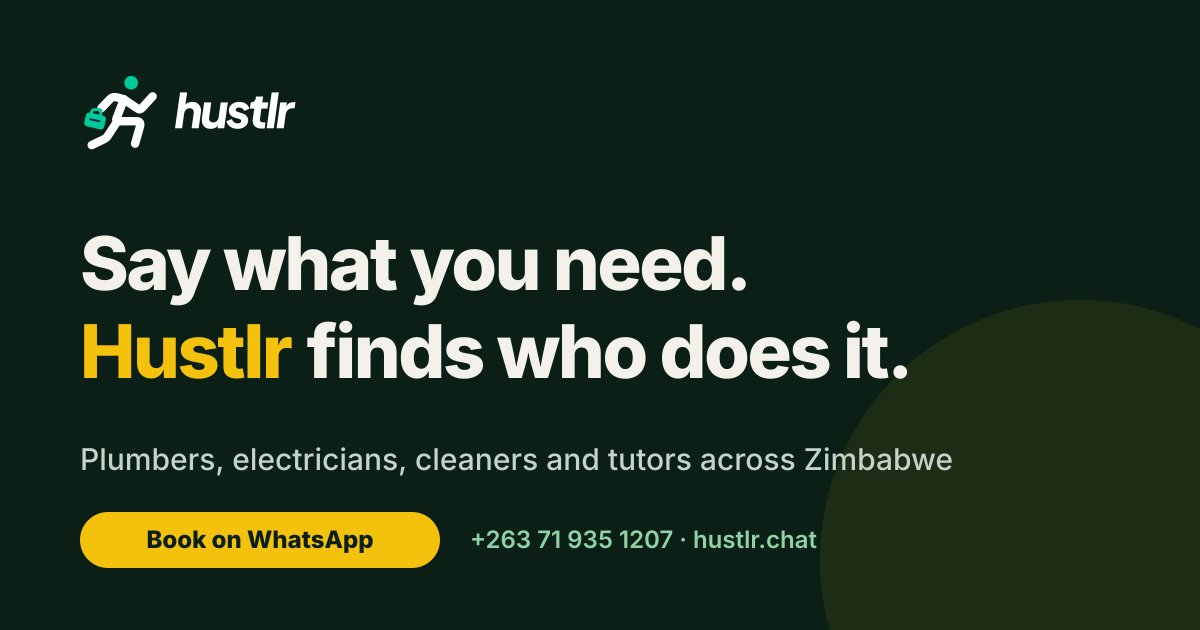
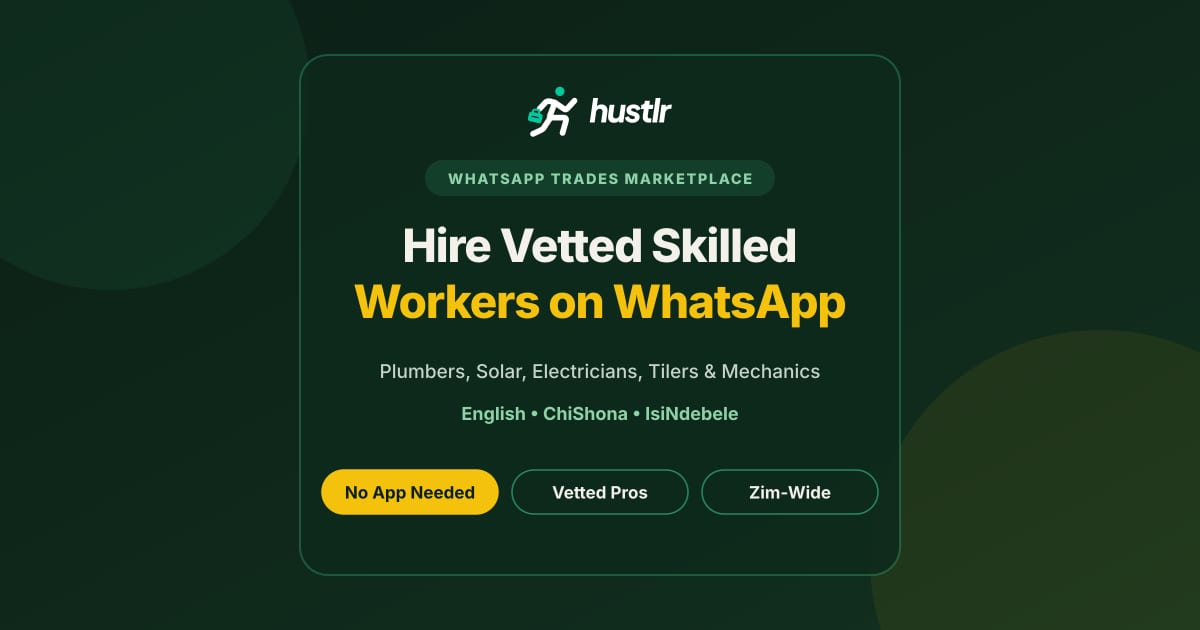
feat: implement /hire page linking trades and cities, add SEO enhancements and update navigation

diff --git a/src/styles/landing.css b/src/styles/landing.css
@@ -102,6 +102,13 @@
 .lp-bycity h3 { font-family: var(--display); font-weight: 800; font-size: 20px; letter-spacing: -0.02em; }
 .lp-bycity ul { margin-top: 12px; }
 
+/* /hire hub */
+.lp-hub { margin-top: 28px; }
+.lp-hub h3 { font-family: var(--display); font-weight: 800; font-size: 24px; letter-spacing: -0.02em; }
+.lp-hub-list { display: grid; gap: 4px; margin: 16px 0 0; padding: 0; list-style: none; }
+.lp-hub-list a { display: block; padding: 10px 12px; border-radius: 12px; font-weight: 700; }
+.lp-hub-list a:hover { background: var(--rd-mint); color: var(--rd-green-text); }
+
 /* Steps */
 .lp-steps { display: grid; grid-template-columns: repeat(auto-fit, minmax(240px, 1fr)); gap: 20px; margin: 36px 0 0; padding: 0; list-style: none; }
 .lp-steps li { padding: 28px; border-radius: var(--rd-radius); background: var(--ink); color: var(--page); }

diff --git a/src/styles/home.css b/src/styles/home.css
@@ -459,6 +459,18 @@ ol {
   color: var(--green);
 }
 .menu-foot:hover { background: var(--panel); }
+/* Services menu: town links */
+.menu-links {
+  display: flex;
+  flex-wrap: wrap;
+  align-items: center;
+  gap: 6px;
+  margin-top: 8px;
+  padding: 10px 12px;
+}
+.menu-links span { margin-right: 6px; font-size: 12px; font-weight: 800; letter-spacing: 0.08em; text-transform: uppercase; color: #5b6e64; }
+.menu-links a { padding: 6px 12px; border-radius: 999px; border: 1px solid var(--line); font-size: 13.5px; font-weight: 700; }
+.menu-links a:hover { background: var(--page); }
 
 /* Mobile menu */
 .nav-panel {

diff --git a/src/lib/llmsTxt.ts b/src/lib/llmsTxt.ts
@@ -34,6 +34,7 @@ export function buildLlmsTxt(siteUrl: string): string {
     '## Core pages',
     '',
     `- [Hustlr homepage](${S}/): What Hustlr is, how WhatsApp matching works, who it serves, and the WhatsApp contact.`,
+    `- [Find a pro](${S}/hire): Every trade and town page in one place, grouped by city and service.`,
     `- [FAQ](${S}/#questions): Short answers on how Hustlr works, trades, app-free use, cities and languages.`,
     `- [For Skilled Workers](${S}/workers): Registration guide and onboarding requirements for Zimbabwean tradespeople seeking verified client leads via WhatsApp.`,
     '',

diff --git a/src/pages/sitemap.xml.ts b/src/pages/sitemap.xml.ts
@@ -6,6 +6,7 @@ import { ACTIVE_TRADES, ACTIVE_CITIES, hirePath, hireCanonicalPath } from '../da
 const paths = [
   '/',
   '/workers',
+  '/hire',
   ...seoServices.map((s) => `/${s.slug}`),
   ...seoCities.map((c) => `/areas/${c.slug}`),
   ...seoServices.flatMap((s) => seoCities.map((c) => `/${s.slug}/${c.slug}`)),
